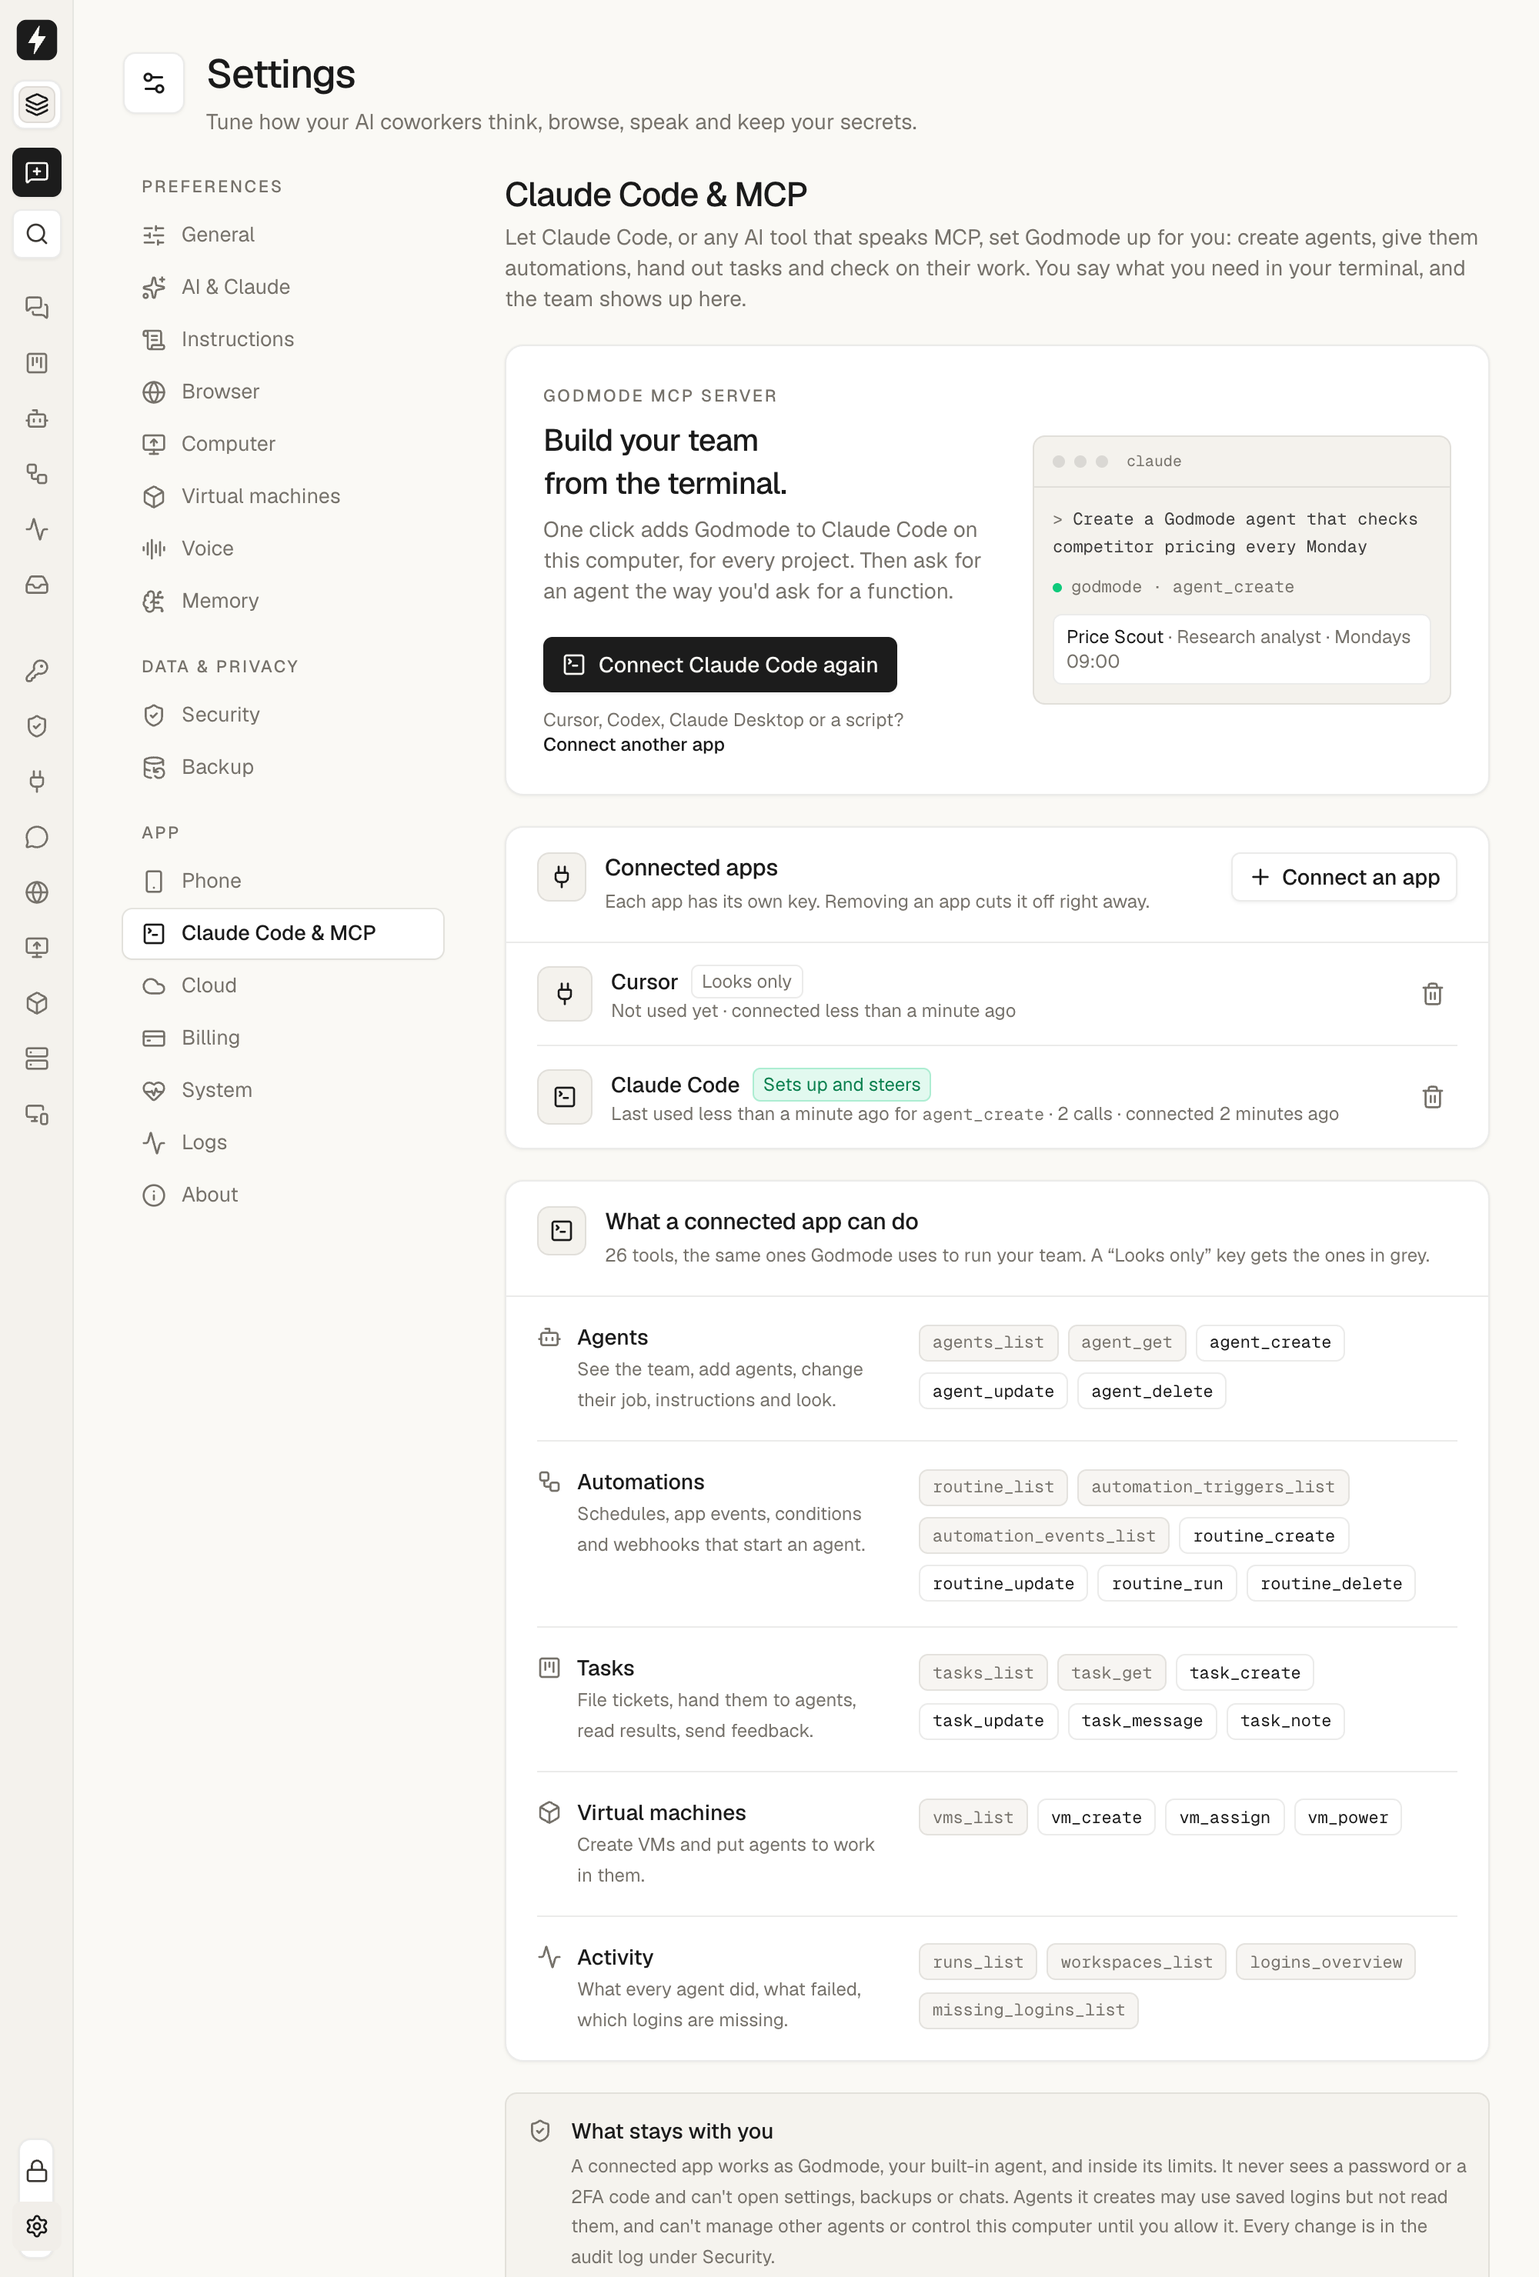
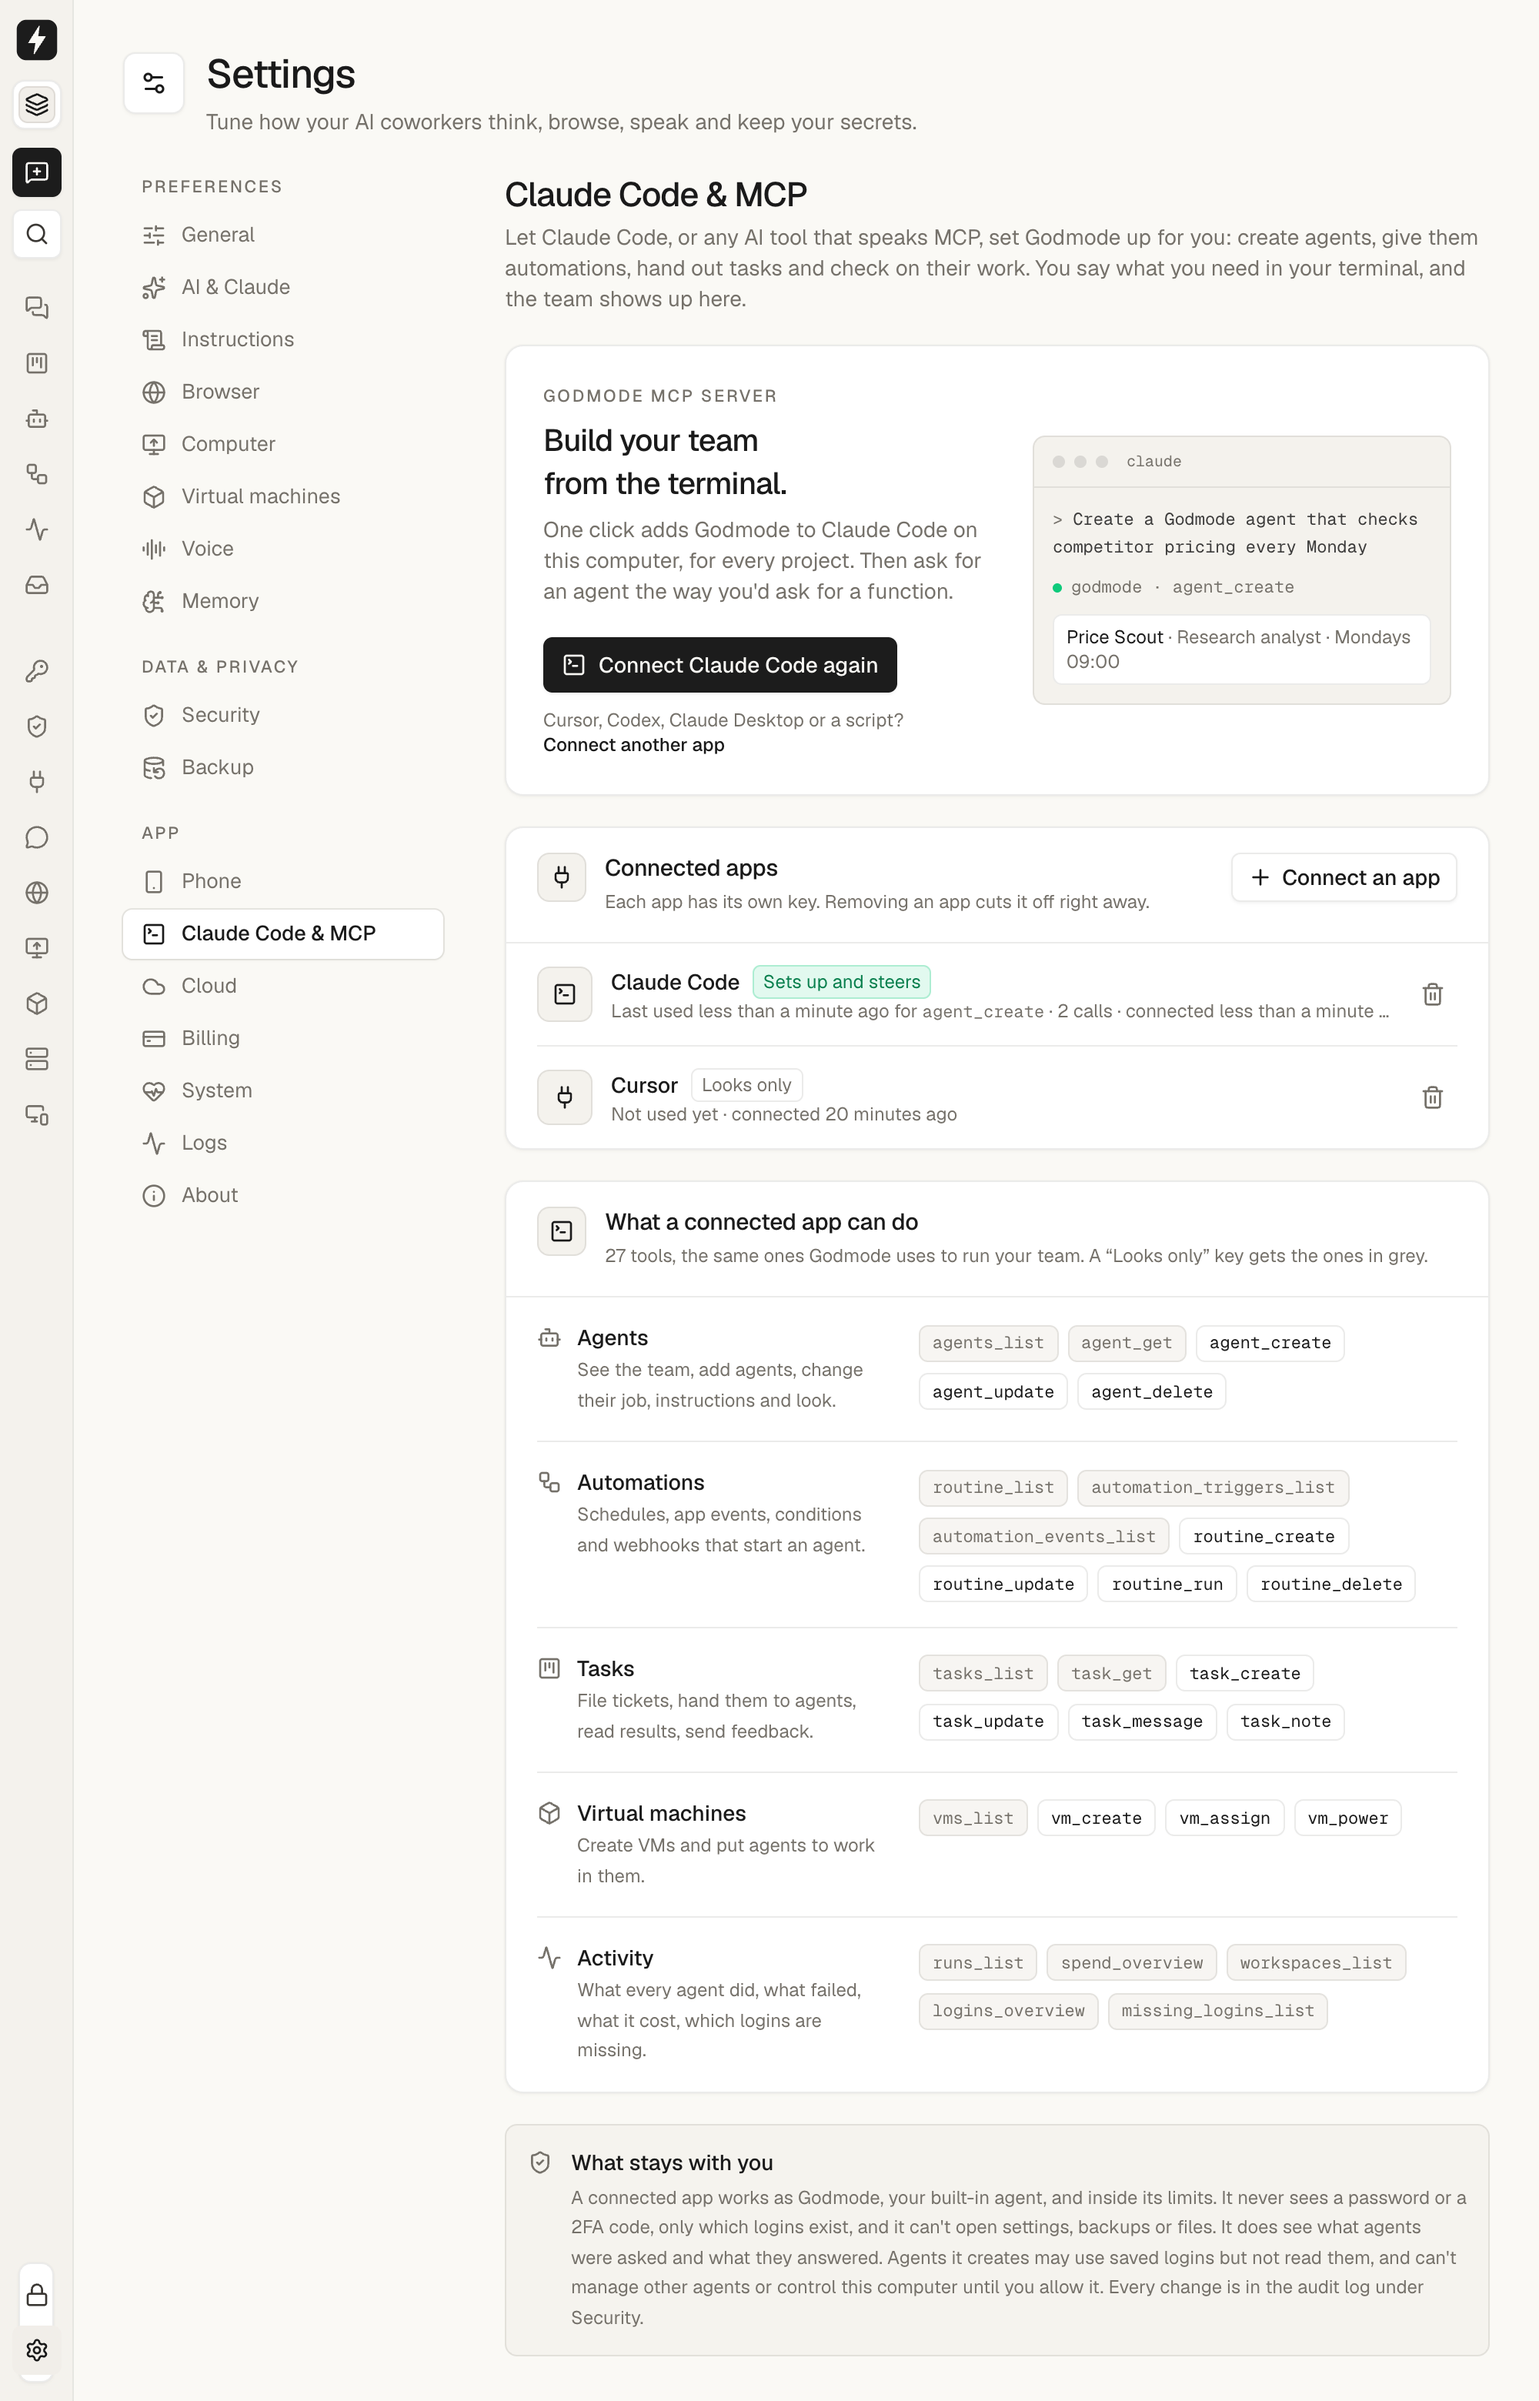
Connected apps see what the team costs, and the screenshots show the final page

diff --git a/apps/desktop/src/components/settings/connect-section.tsx b/apps/desktop/src/components/settings/connect-section.tsx
@@ -33,7 +33,7 @@ const TOOL_GROUPS: { title: string; icon: ReactNode; about: string; match: (name
   { title: "Automations", icon: <Workflow />, about: "Schedules, app events, conditions and webhooks that start an agent.", match: (n) => n.startsWith("routine") || n.startsWith("automation") },
   { title: "Tasks", icon: <SquareKanban />, about: "File tickets, hand them to agents, read results, send feedback.", match: (n) => n.startsWith("task") },
   { title: "Virtual machines", icon: <Box />, about: "Create VMs and put agents to work in them.", match: (n) => n.startsWith("vm") },
-  { title: "Activity", icon: <Activity />, about: "What every agent did, what failed, which logins are missing.", match: () => true },
+  { title: "Activity", icon: <Activity />, about: "What every agent did, what failed, what it cost, which logins are missing.", match: () => true },
 ];
 
 export function ConnectSection() {

diff --git a/packages/core/src/mcp/tools.ts b/packages/core/src/mcp/tools.ts
@@ -567,6 +567,7 @@ const CONNECTOR_TOOLS: ReadonlyMap<string, ConnectorAccess> = new Map([
   ["tasks_list", "read"],
   ["task_get", "read"],
   ["runs_list", "read"],
+  ["spend_overview", "read"],
   ["workspaces_list", "read"],
   ["logins_overview", "read"],
   ["missing_logins_list", "read"],

diff --git a/docs/ARCHITECTURE.md b/docs/ARCHITECTURE.md
@@ -471,7 +471,7 @@ tasks, and read what was done. `packages/core/src/connect/`.
   `CONNECT_INSTRUCTIONS` instead of the agents' text.
 * **Tools.** `CONNECTOR_TOOLS` in `mcp/tools.ts` is the allowlist, each tool marked `read` or `manage`: `agents_list`,
   `agent_get`, `agent_create`, `agent_update`, `agent_delete`, the `routine_*` and `automation_*` tools, `tasks_list`,
-  `task_get`, `task_create`, `task_update`, `task_message`, `task_note`, `runs_list`, `workspaces_list`,
+  `task_get`, `task_create`, `task_update`, `task_message`, `task_note`, `runs_list`, `spend_overview`, `workspaces_list`,
   `logins_overview` (names, never secrets), `missing_logins_list`, `vms_list`, `vm_create`, `vm_assign`, `vm_power`.
   Nothing that needs a run, a chat or a browser (vault fills, questions, follow-ups, delegation, API tools). `tools/list`
   and `tools/call` both check it; a `read` key is refused on `manage` tools. A read key still sees login names and
